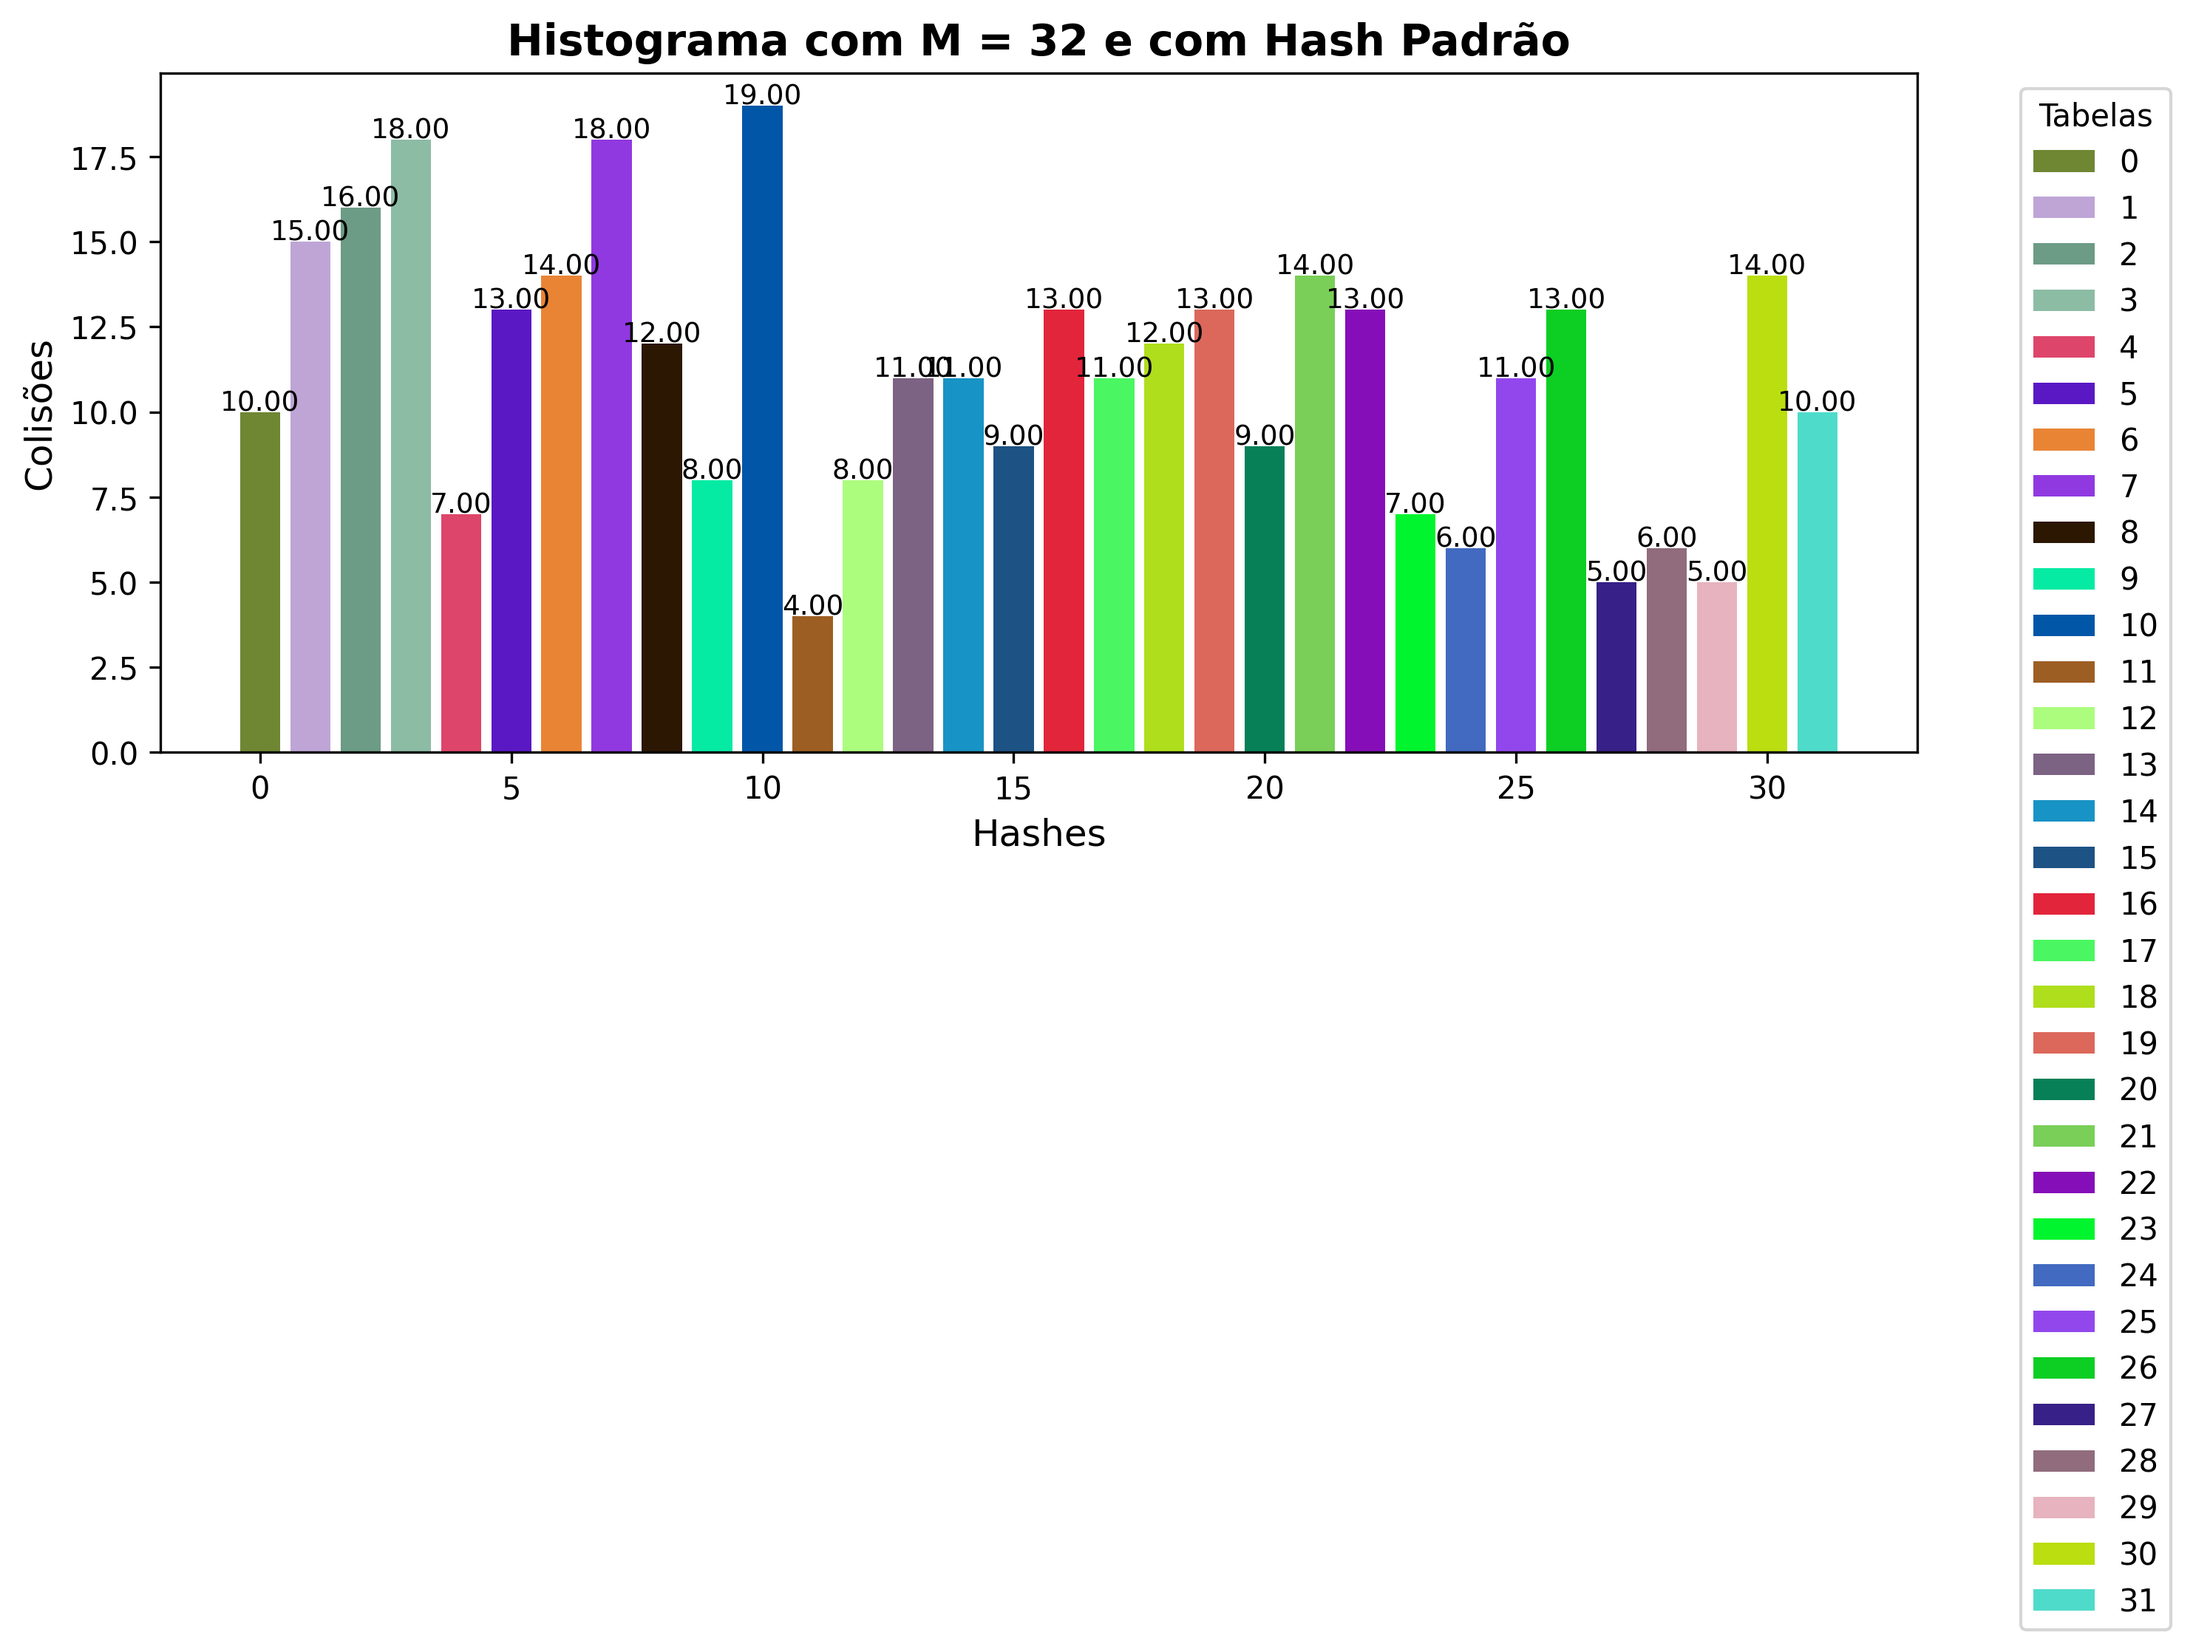
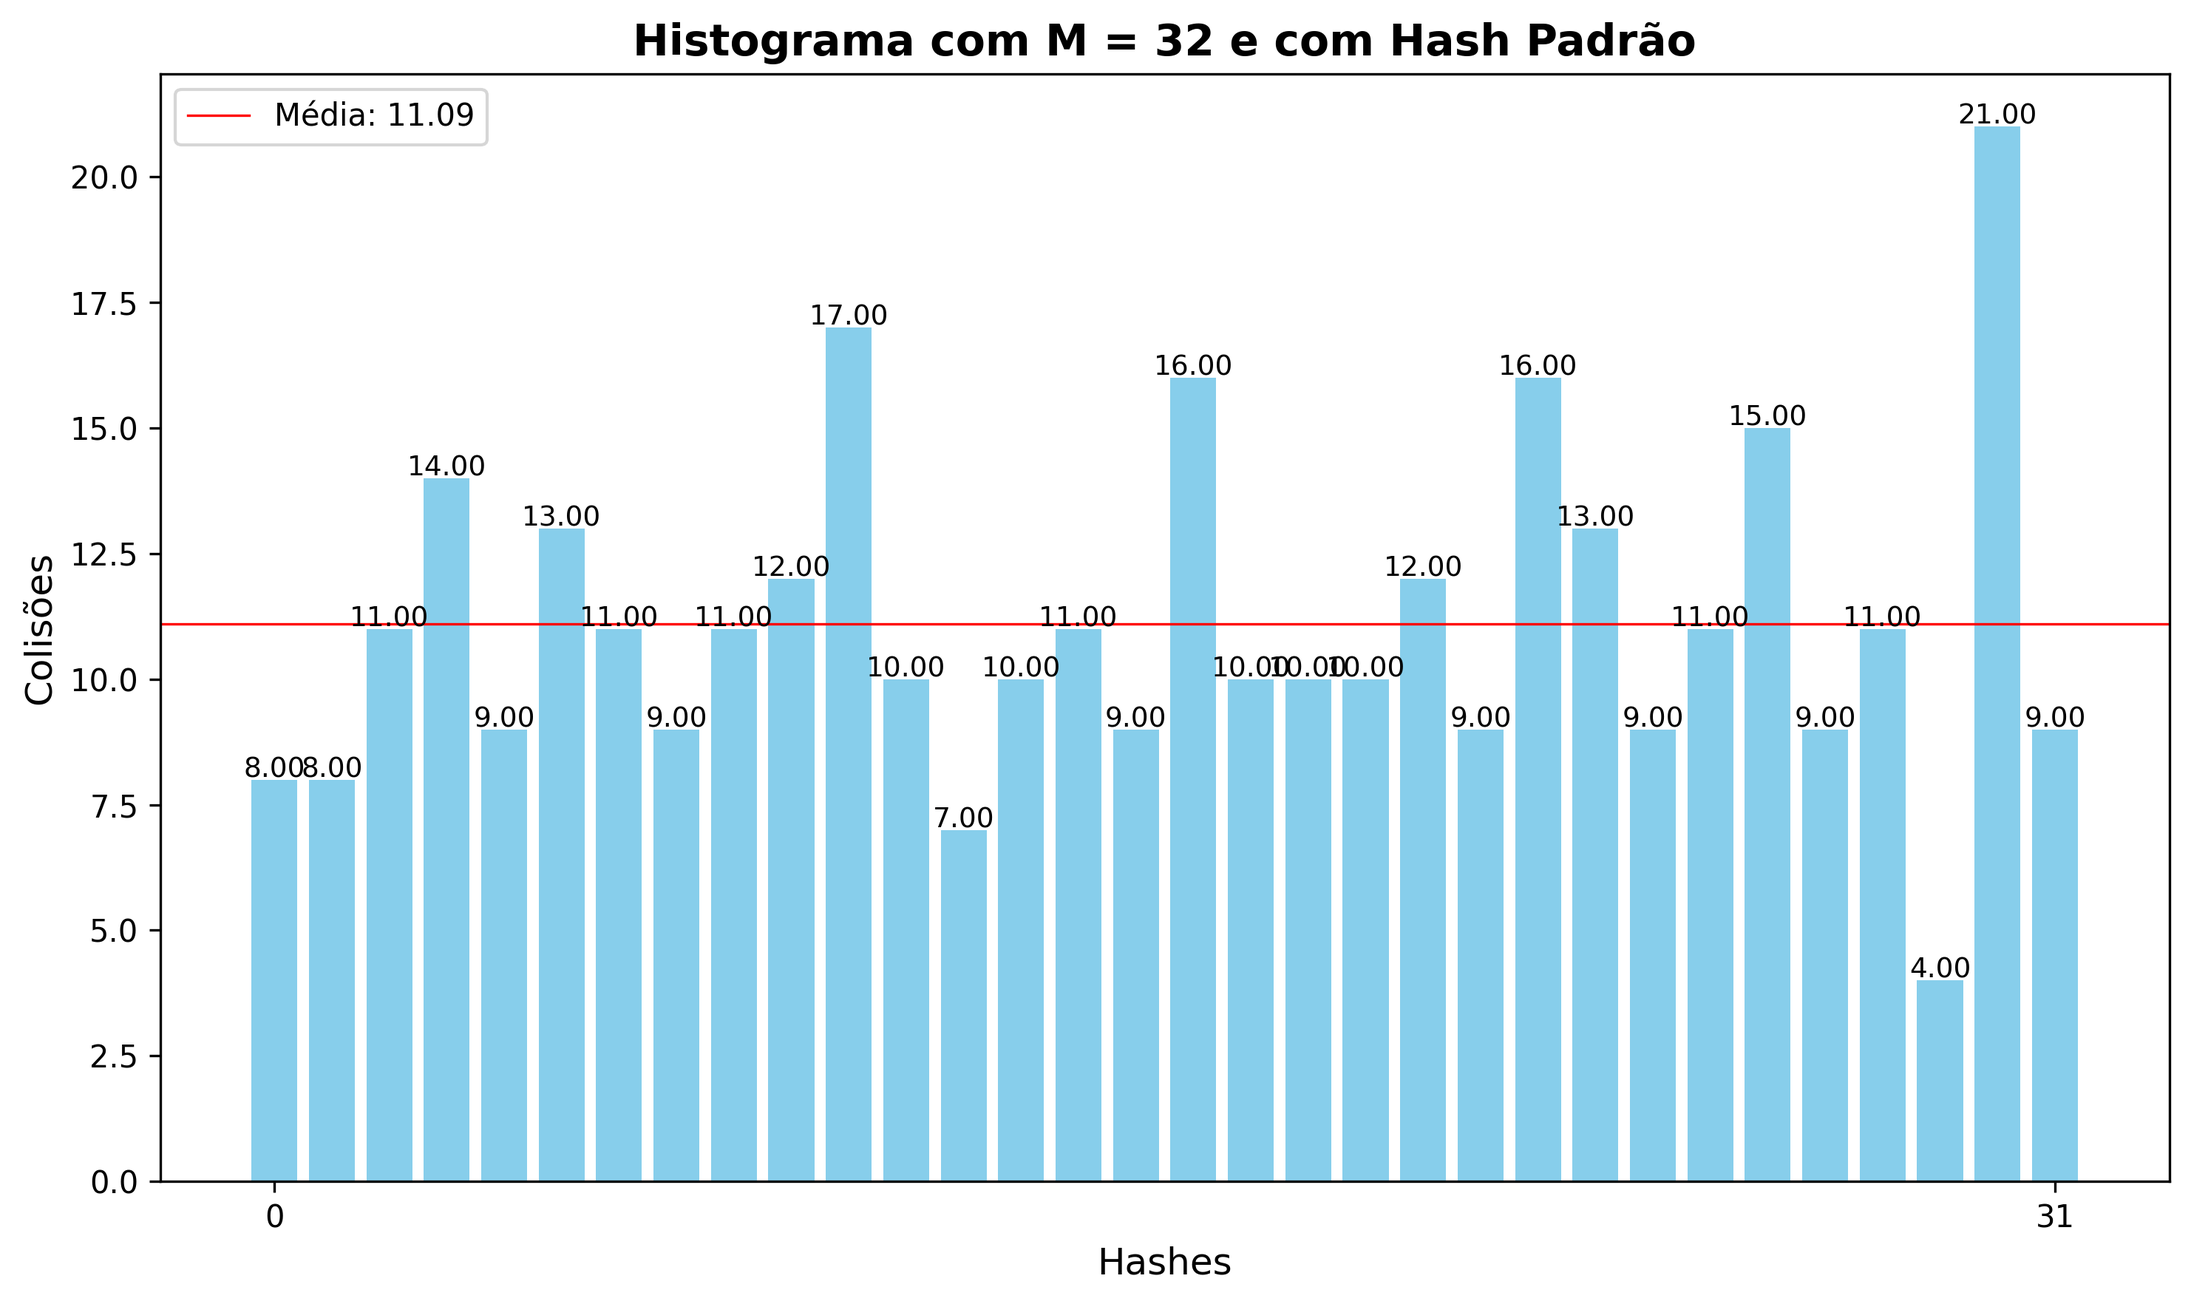
coloquei para os gráficos serem histogramas

diff --git a/TabelaDeSimbolos/menu.py b/TabelaDeSimbolos/menu.py
@@ -72,7 +72,7 @@ def calcula_media(arquivo:str,tabela, args:list = [], quant:int = 5) -> int:
 def clean_word(word:str) -> str:
     return re.sub(r"(?<![a-zA-Z])'|'(?![a-zA-Z])|(?<![a-zA-Z0-9])[^\w']+|[^\w']+(?![a-zA-Z0-9])", "", word)
 
-def costruir_grafico(x, y, Xlabel:str,Ylabel:str,title:str,Bar:bool=True, save_path="grafico_tabelas.png",directory="TabelaDeSimbolos/arquivos_salvos"):
+def costruir_grafico(x, y, Xlabel: str, Ylabel: str, title: str, Bar: bool = True, save_path: str = "grafico_tabelas.png", directory: str = "TabelaDeSimbolos/arquivos_salvos"):
     
     plt.figure(figsize=(10, 6))
     plt.title(title, fontsize=14, fontweight='bold')
@@ -80,9 +80,10 @@ def costruir_grafico(x, y, Xlabel:str,Ylabel:str,title:str,Bar:bool=True, save_p
     plt.ylabel(Ylabel, fontsize=12)
     plt.xticks(fontsize=10)
     plt.yticks(fontsize=10)
+    
     if Bar:
         colors = [f'#{random.randint(0, 0xFFFFFF):06x}' for _ in x]
-        bars = plt.bar(x, y, color=colors)
+        bars = plt.bar(x, y, color=colors) 
         for bar, label in zip(bars, x):
             plt.text(
                 bar.get_x() + bar.get_width() / 2, 
@@ -90,15 +91,24 @@ def costruir_grafico(x, y, Xlabel:str,Ylabel:str,title:str,Bar:bool=True, save_p
                 f'{bar.get_height():.2f}',
                 ha='center',
                 fontsize=9
-            )
+            )    
         plt.legend(bars, x, title="Tabelas", bbox_to_anchor=(1.05, 1), loc='upper left')
     else:
         media = sum(y)/len(x)
-        plt.bar(x, y, color="skyblue")
+        bars = plt.bar(x, y, color="skyblue")
+        for bar, label in zip(bars, x):
+            plt.text(
+                bar.get_x() + bar.get_width() / 2, 
+                bar.get_height() + 0.05,
+                f'{bar.get_height():.2f}',
+                ha='center',
+                fontsize=9
+            )    
         plt.axhline(y=media, color='red', linestyle='-', label=f'Média: {media:.2f}', linewidth=0.8)
         plt.legend()
         plt.xticks([0, x[-1]], fontsize=10)
         
+   
     plt.tight_layout() 
     os.makedirs(directory, exist_ok=True)
     file_path = os.path.join(directory, save_path)

diff --git a/TabelaDeSimbolos/parte2.py b/TabelaDeSimbolos/parte2.py
@@ -16,7 +16,7 @@ def question1():
 
     x = np.array(lista_hashes)
     y = np.array(lista_colisoes)
-    menu.costruir_grafico(x, y, "Hashes", "Colisões", f"Histograma com M = {i} e primeira letra como chave",save_path="questão-1")
+    menu.costruir_grafico(x, y, "Hashes", "Colisões", f"Histograma com M = {i} e primeira letra como chave",Bar=False,save_path="questão-1")
     #plt.bar(x, y)
     #plt.xlabel("Hash")
     #plt.ylabel("Colisões")
@@ -36,7 +36,7 @@ def question2():
 
     x = np.array(lista_hashes)
     y = np.array(lista_colisoes)
-    menu.costruir_grafico(x, y, "Hashes", "Colisões", f"Histograma com M = {i} e com Hash Padrão",save_path="questão-2")
+    menu.costruir_grafico(x, y, "Hashes", "Colisões", f"Histograma com M = {i} e com Hash Padrão",Bar=False,save_path="questão-2")
     #plt.bar(x, y)
     #plt.xlabel("Hash")
     #plt.ylabel("Colisões")
@@ -56,7 +56,7 @@ def question3():
 
         x = np.array(lista_hashes)
         y = np.array(lista_colisoes)
-        menu.costruir_grafico(x, y, "Hashes", "Colisões", f"Histograma com M = {i} e com Hash Padrão",save_path=f"questão-3-{i}")
+        menu.costruir_grafico(x, y, "Hashes", "Colisões", f"Histograma com M = {i} e com Hash Padrão",Bar=False,save_path=f"questão-3-{i}")
         #plt.bar(x, y)
         #plt.xlabel("Hash")
         #plt.ylabel("Colisões")
@@ -77,7 +77,7 @@ def question4():
 
         x = np.array(lista_hashes)
         y = np.array(lista_colisoes)
-        menu.costruir_grafico(x, y, "Hashes", "Colisões", f"Histograma com M = {i} e com Hash Padrão",save_path=f"questão-4-{i}")
+        menu.costruir_grafico(x, y, "Hashes", "Colisões", f"Histograma com M = {i} e com Hash Padrão",Bar=False,save_path=f"questão-4-{i}")
         #plt.bar(x, y)
         #plt.xlabel("Hash")
         #plt.ylabel("Colisões")
